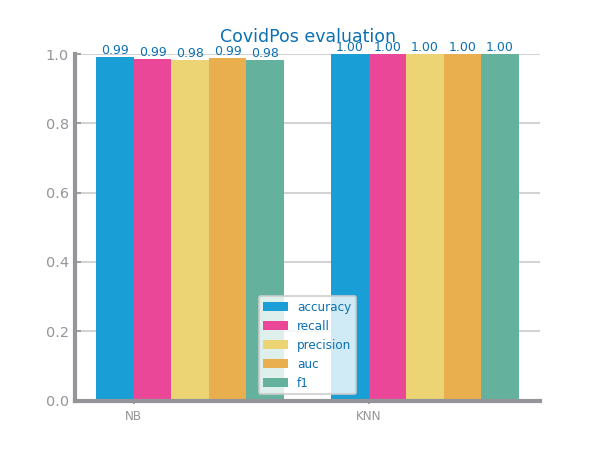
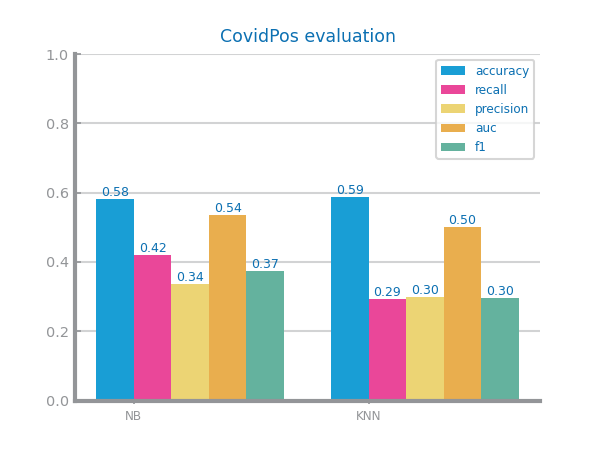
added new figures for encoding

diff --git a/dataset_1/2-data_preparation/code/dslabs_functions.py b/dataset_1/2-data_preparation/code/dslabs_functions.py
@@ -223,8 +223,8 @@ def plot_multibar_chart(
     ax = set_chart_labels(ax=ax, title=title, xlabel=xlabel, ylabel=ylabel)
     if percentage:
         ax.set_ylim(0.0, 1.0)
-    print(yvalues)
     bar_labels: list = list(yvalues.keys())
+
     # This is the location for each bar
     index: ndarray = arange(len(group_labels))
     bar_width: float = 0.8 / len(bar_labels)
@@ -650,11 +650,12 @@ CLASS_EVAL_METRICS: dict[str, Callable] = {
 
 
 def run_NB(trnX, trnY, tstX, tstY, metric: str = "accuracy") -> dict[str, float]:
-    estimators: dict[str, GaussianNB | BernoulliNB] = {
+    estimators: dict[str, GaussianNB | MultinomialNB | BernoulliNB] = {
         "GaussianNB": GaussianNB(),
+        "MultinomialNB": MultinomialNB(),
         "BernoulliNB": BernoulliNB(),
     }
-    best_model: GaussianNB | BernoulliNB = None  # type: ignore
+    best_model: GaussianNB | MultinomialNB | BernoulliNB = None  # type: ignore
     best_performance: float = 0.0
     eval: dict[str, float] = {}
 
@@ -690,6 +691,7 @@ def run_KNN(trnX, trnY, tstX, tstY, metric="accuracy") -> dict[str, float]:
         for key in CLASS_EVAL_METRICS:
             eval[key] = CLASS_EVAL_METRICS[key](tstY, prd)
     return eval
+
 
 def evaluate_approach(
     train: DataFrame, test: DataFrame, target: str = "class", metric: str = "accuracy"
